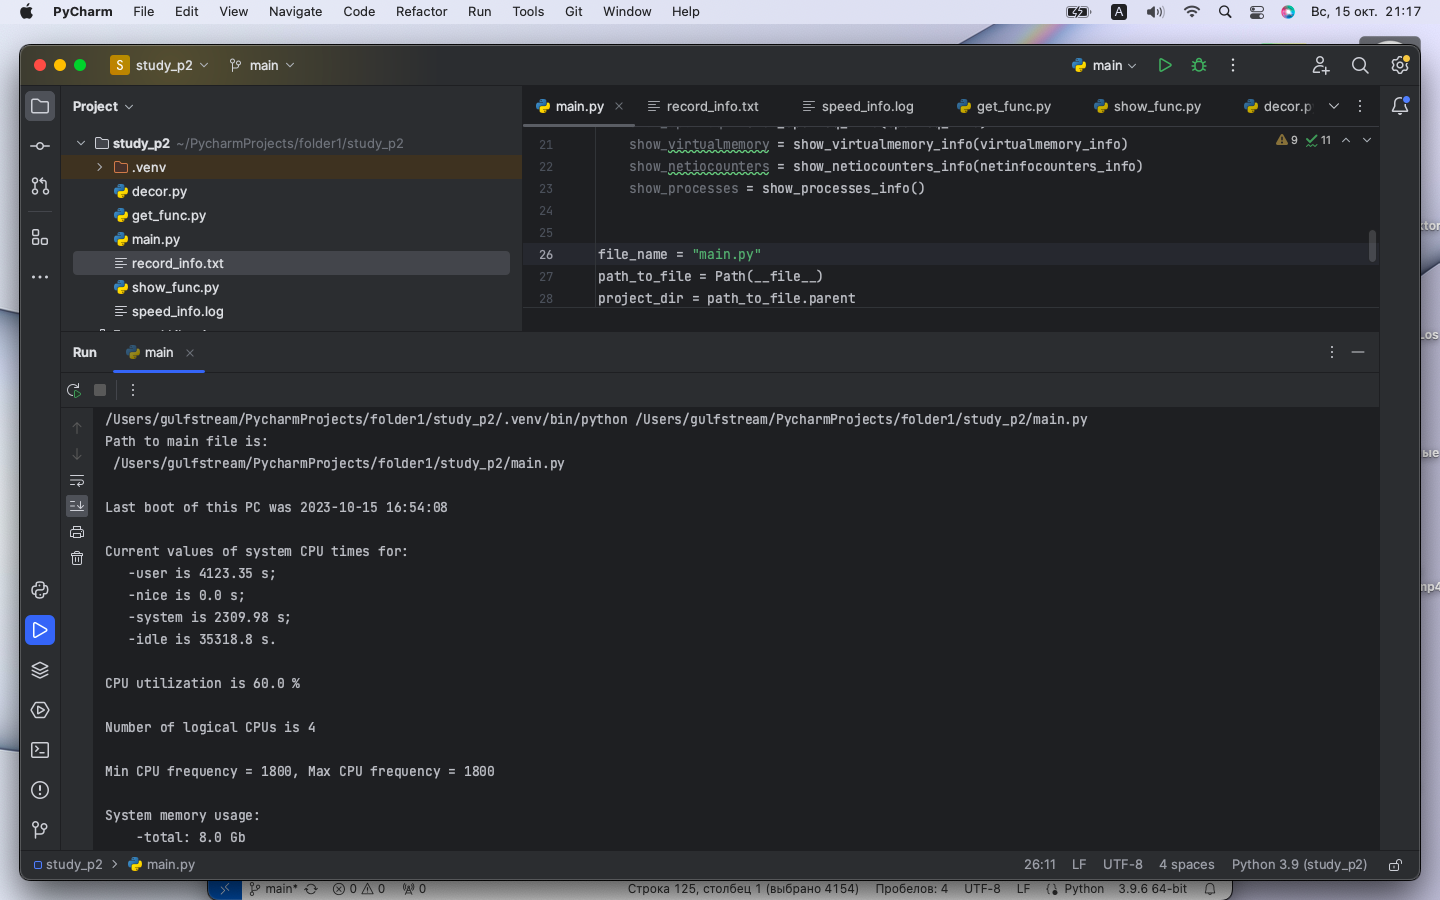
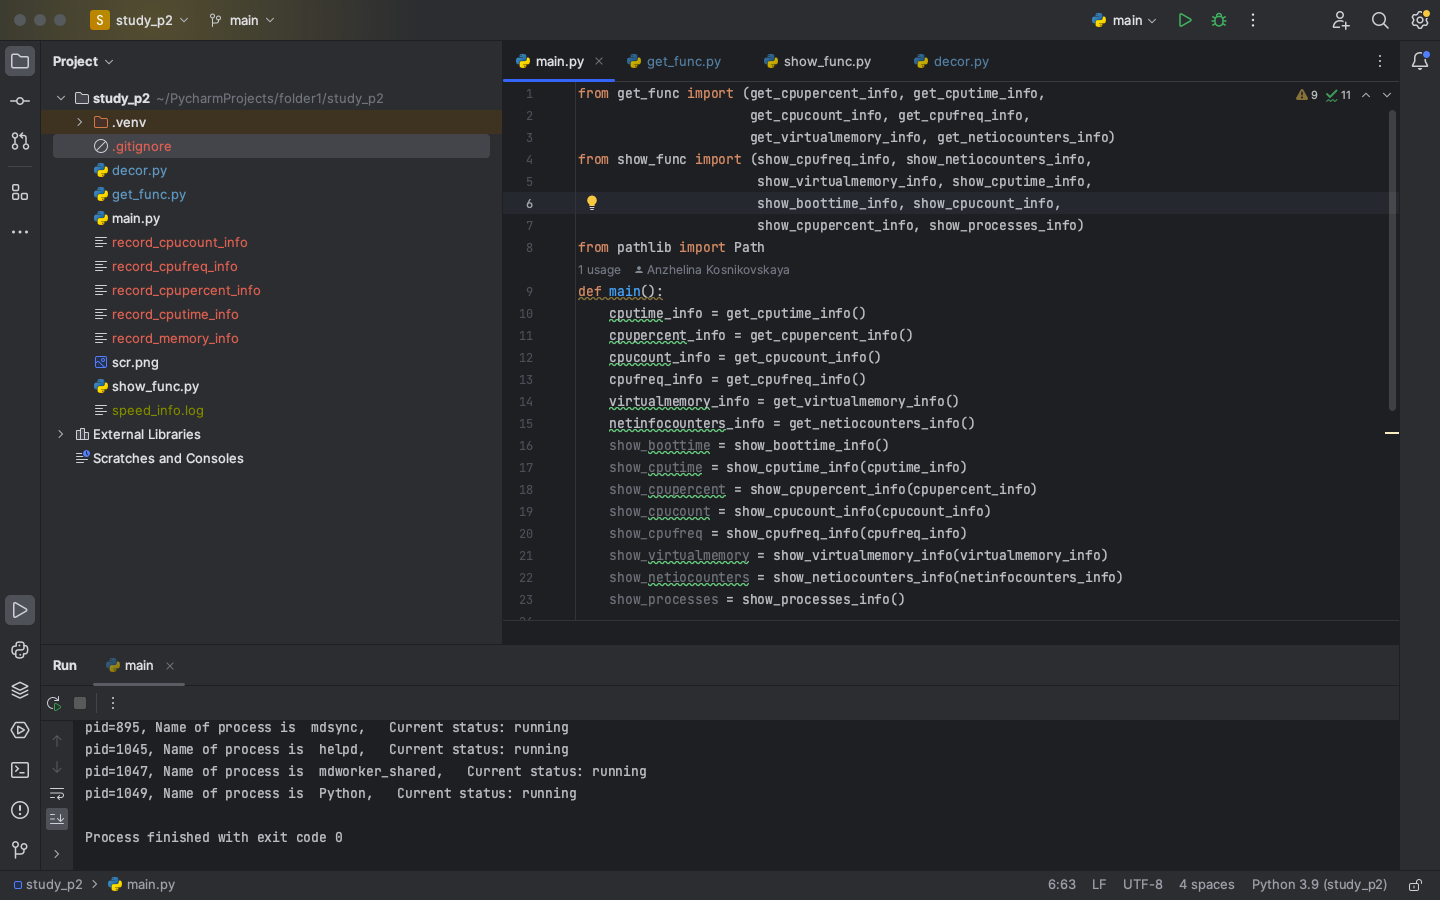
format json

Changed region(s): [[0.0, 0.0, 1.0, 1.0], [0.1875, 0.4356, 0.2188, 0.4667]]

diff --git a/get_func.py b/get_func.py
@@ -3,7 +3,7 @@ import datetime
 from decor import log
 from decor import speed_info
 
-@log("record_info.txt")
+@log("record_cputime_info")
 def get_cputime_info():
     return {"user": psutil.cpu_times().user,
             "nice": psutil.cpu_times().nice,
@@ -11,24 +11,24 @@ def get_cputime_info():
             "idle": psutil.cpu_times().idle}
 
 
-@log("record_info.txt")
+@log("record_cpupercent_info")
 @speed_info
 def get_cpupercent_info():
     return psutil.cpu_percent()
 
 
-@log("record_info.txt")
+@log("record_cpucount_info")
 @speed_info
 def get_cpucount_info():
     return psutil.cpu_count()
 
 
-@log("record_info.txt")
+@log("record_cpufreq_info")
 def get_cpufreq_info():
     return psutil.cpu_freq()
 
 
-@log("record_info.txt")
+@log("record_memory_info")
 def get_virtualmemory_info():
     return psutil.virtual_memory()
 

diff --git a/decor.py b/decor.py
@@ -1,4 +1,5 @@
 import datetime
+import json
 
 def log(file_name):
     def record_info(func):
@@ -6,7 +7,7 @@ def log(file_name):
         def record_info_worker(*args, **kwargs):
             res = func()
             with open(file_name, "a") as info_record_file:
-                info_record_file.write(info_string.format(datetime.datetime.now(), res))
+                info_record_file.write(json.dumps(info_string.format(datetime.datetime.now(), res)))
             return res
         return record_info_worker
     return record_info
